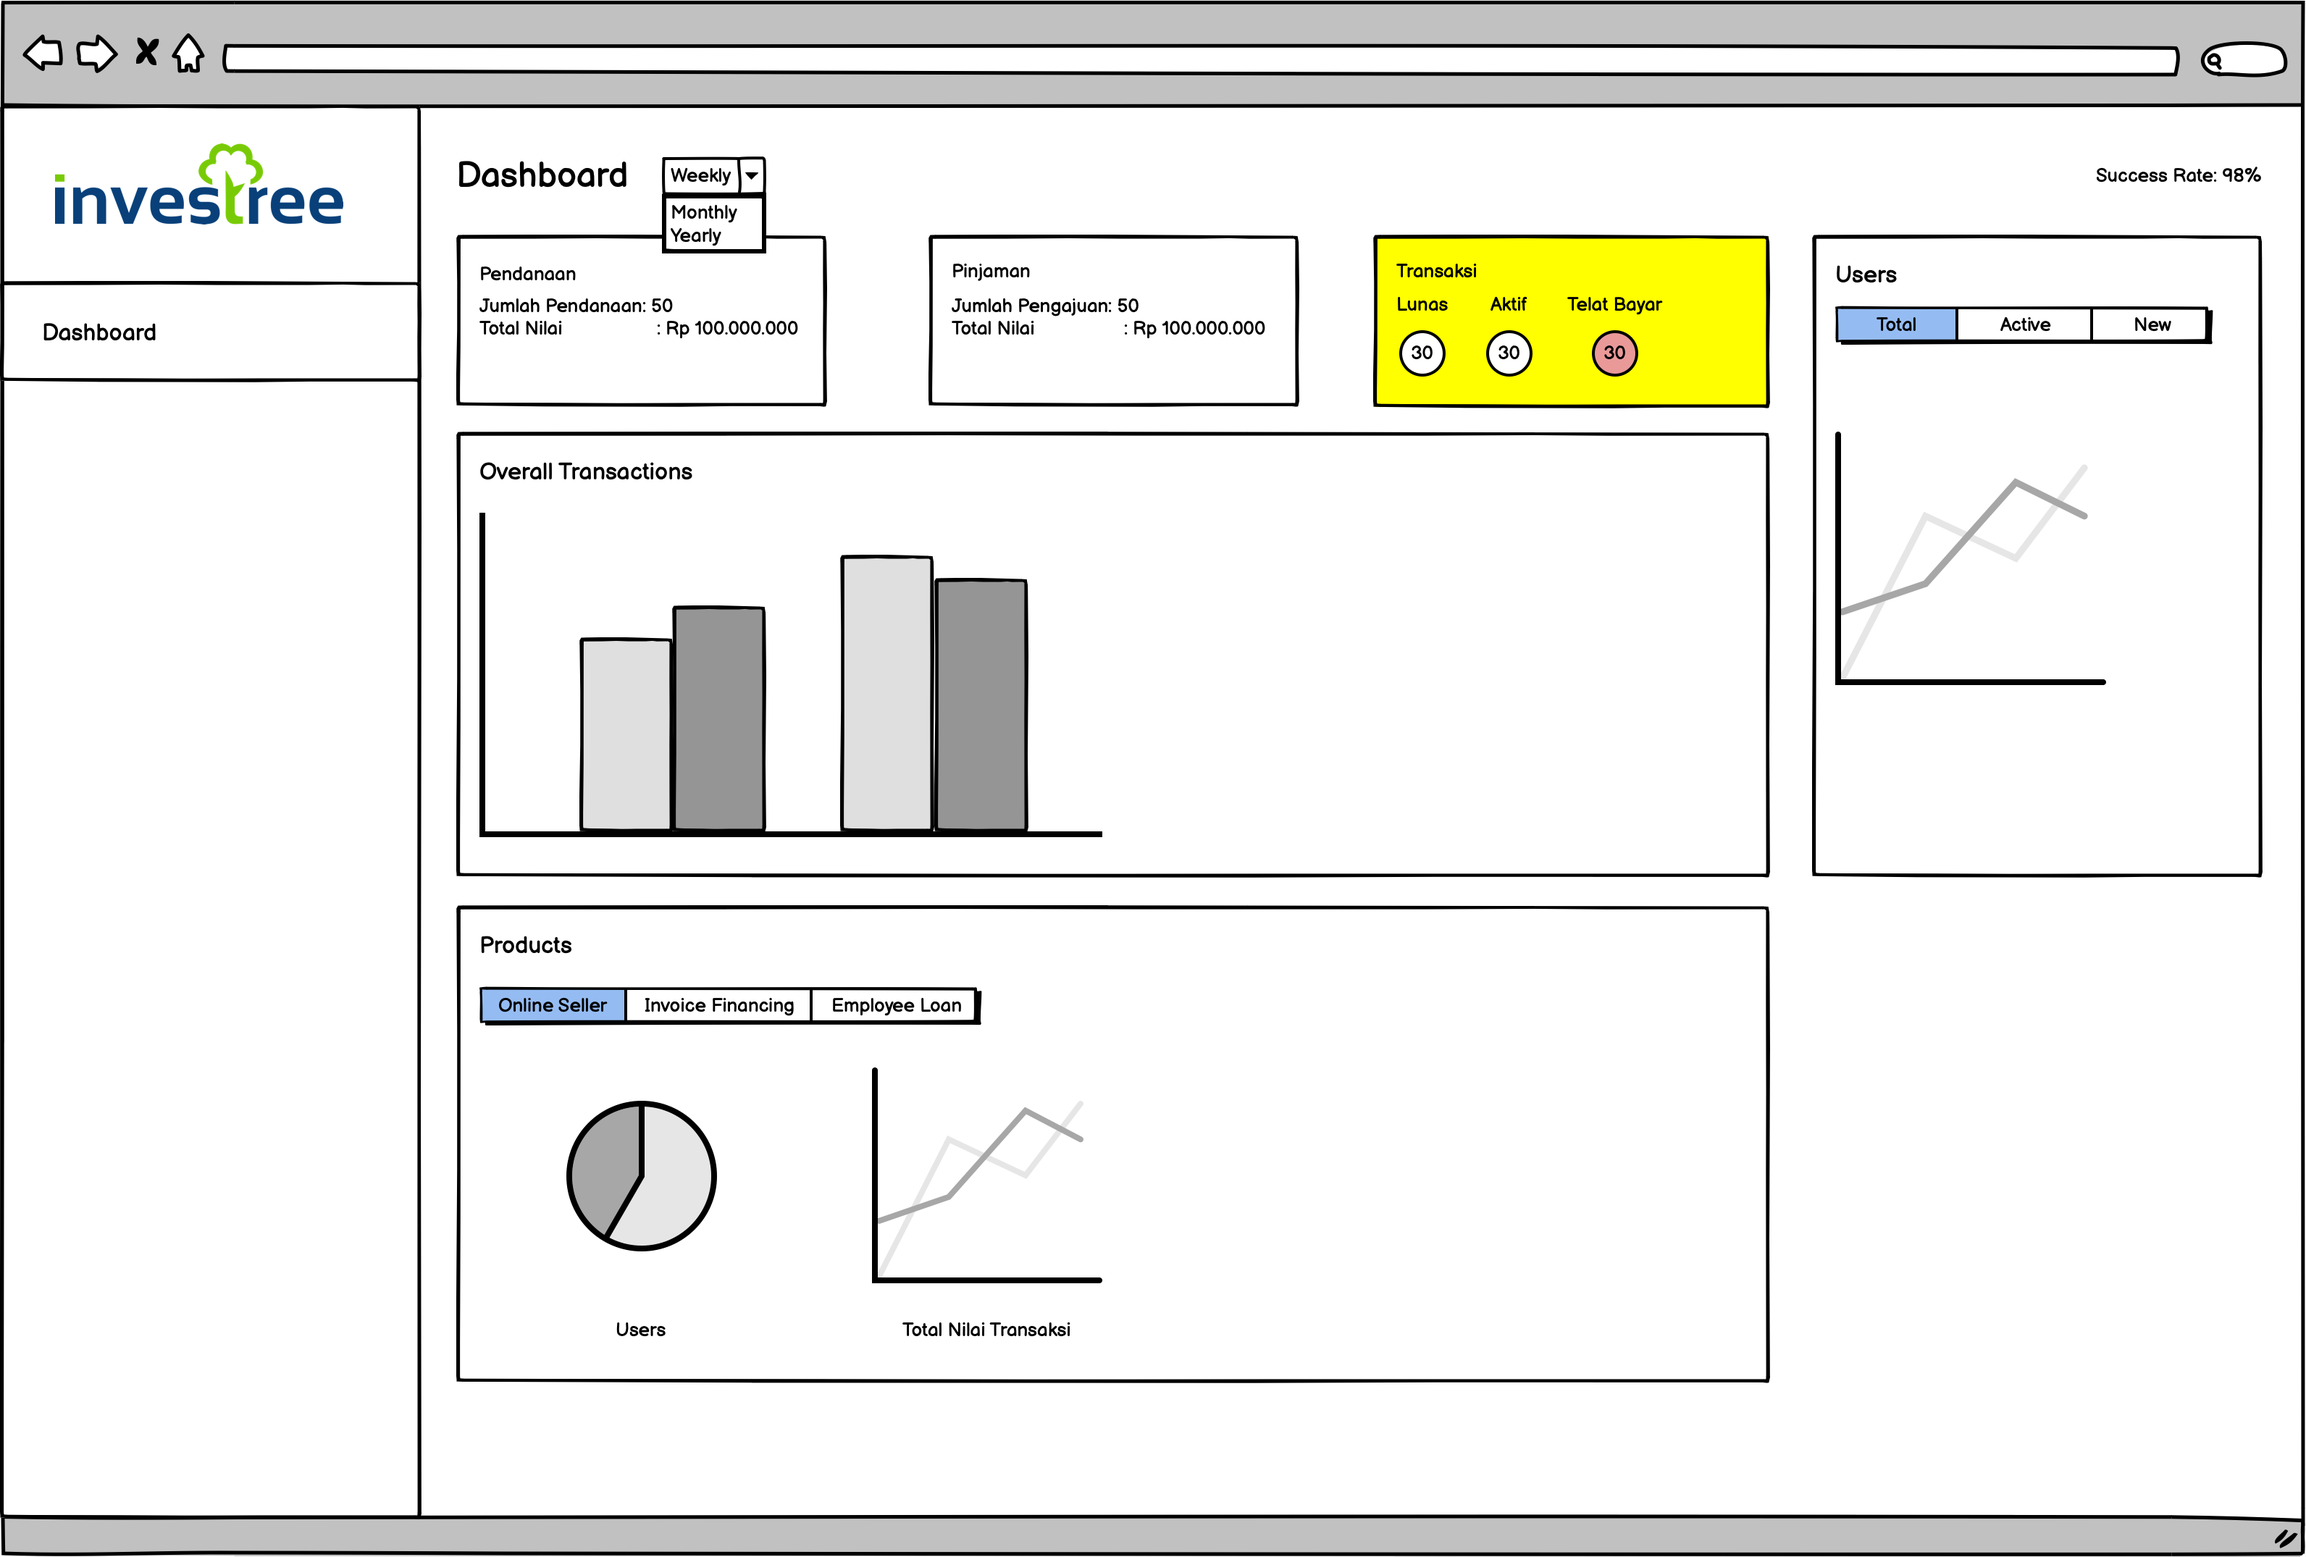
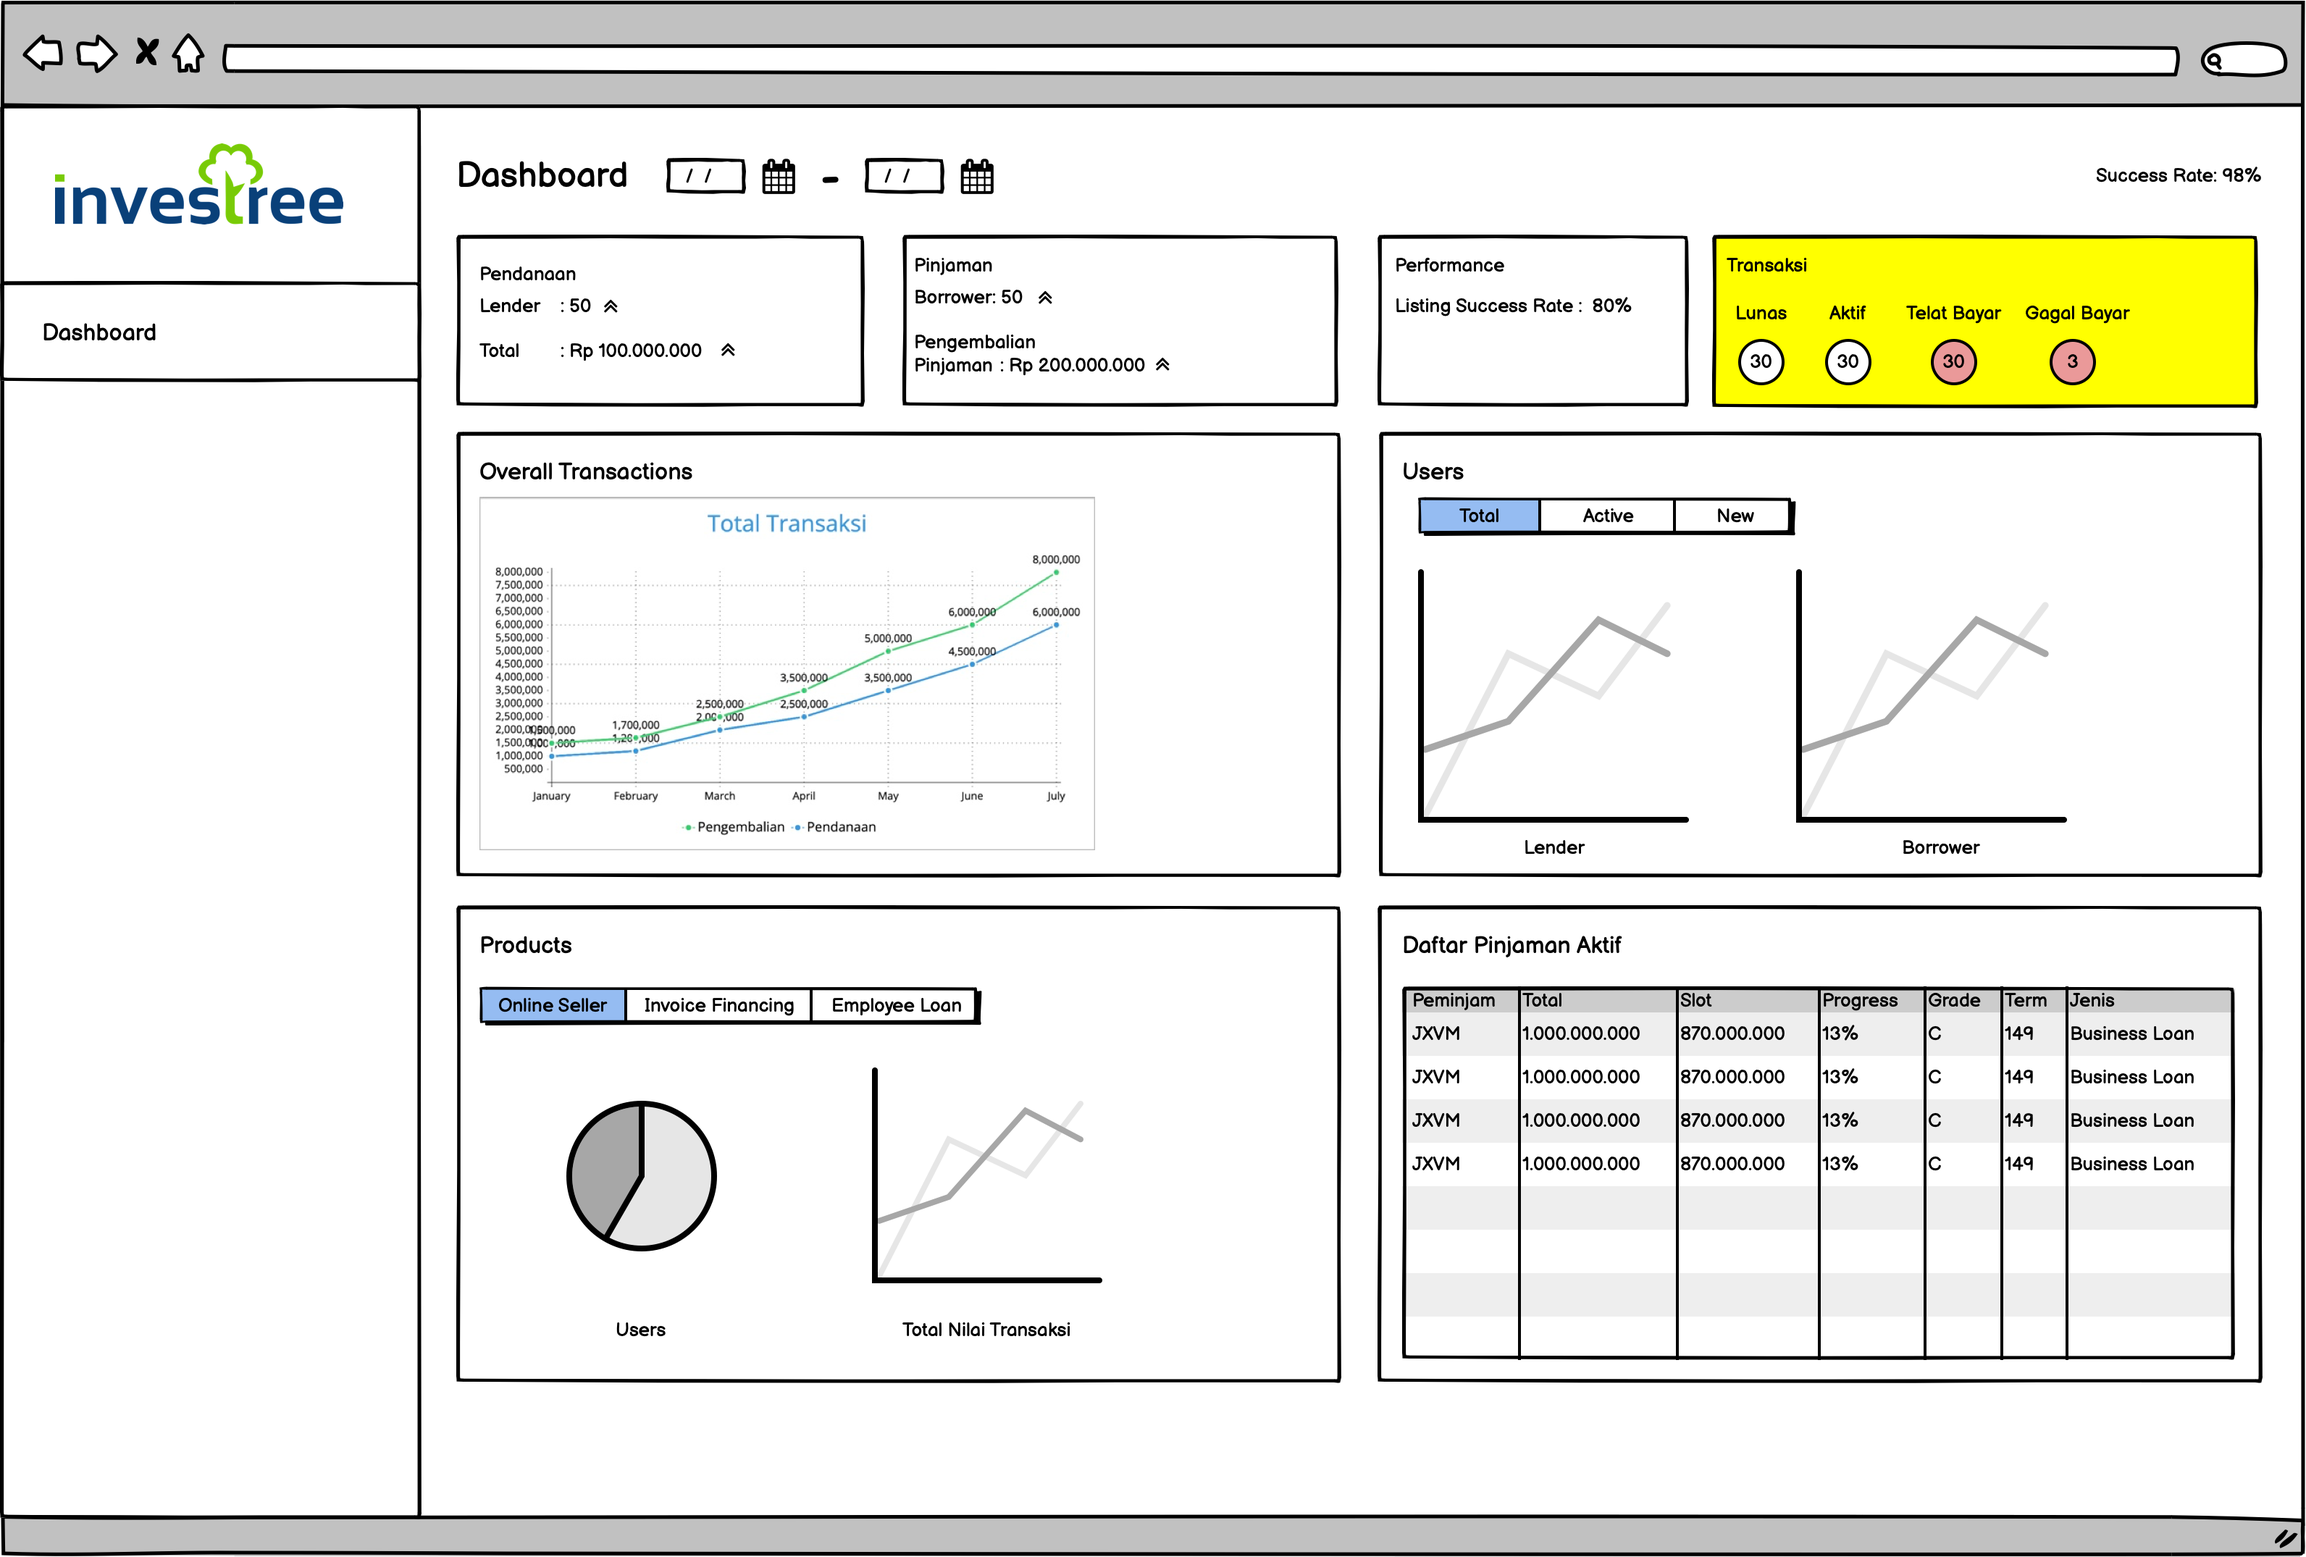
update mockup

diff --git a/mockup-dashboard/slides.md b/mockup-dashboard/slides.md
@@ -59,7 +59,7 @@ layout: full
 
 # Dashboard
 
-- Dashboard bisa ditampilkan berdasarkan waktu (Daily, Weekly, Monthly, Yearly)
+- Dashboard bisa ditampilkan berdasarkan range tanggal (from, to)
 
 
 ---
